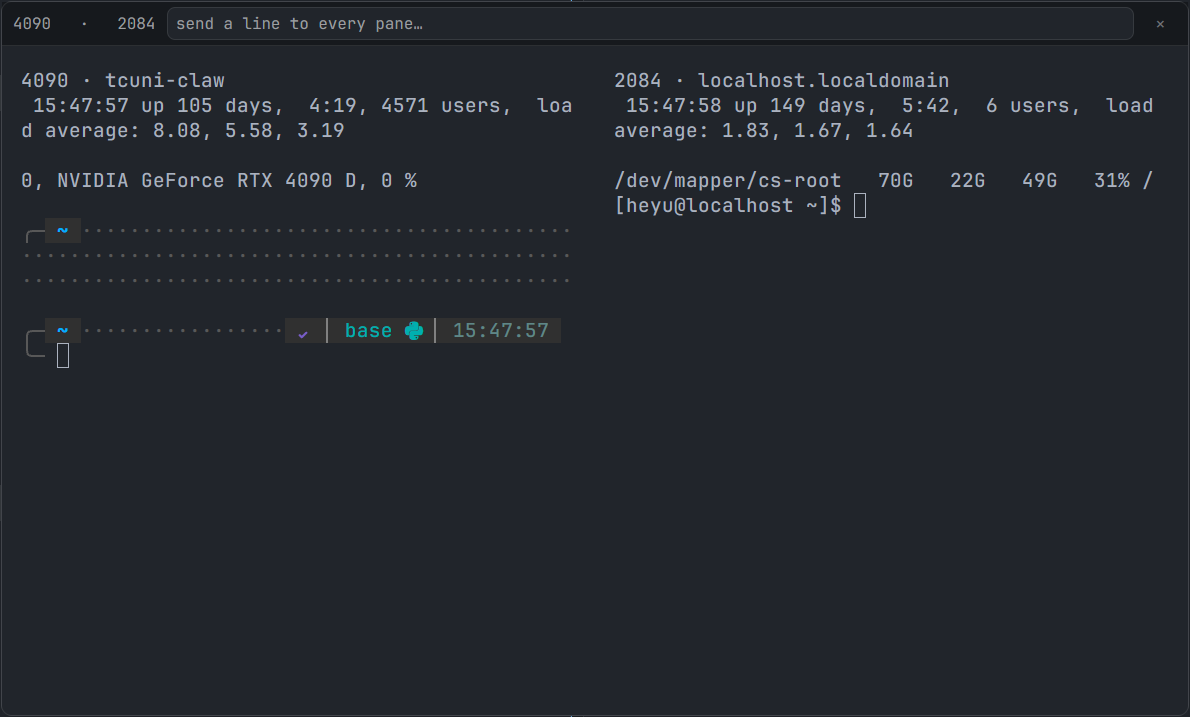
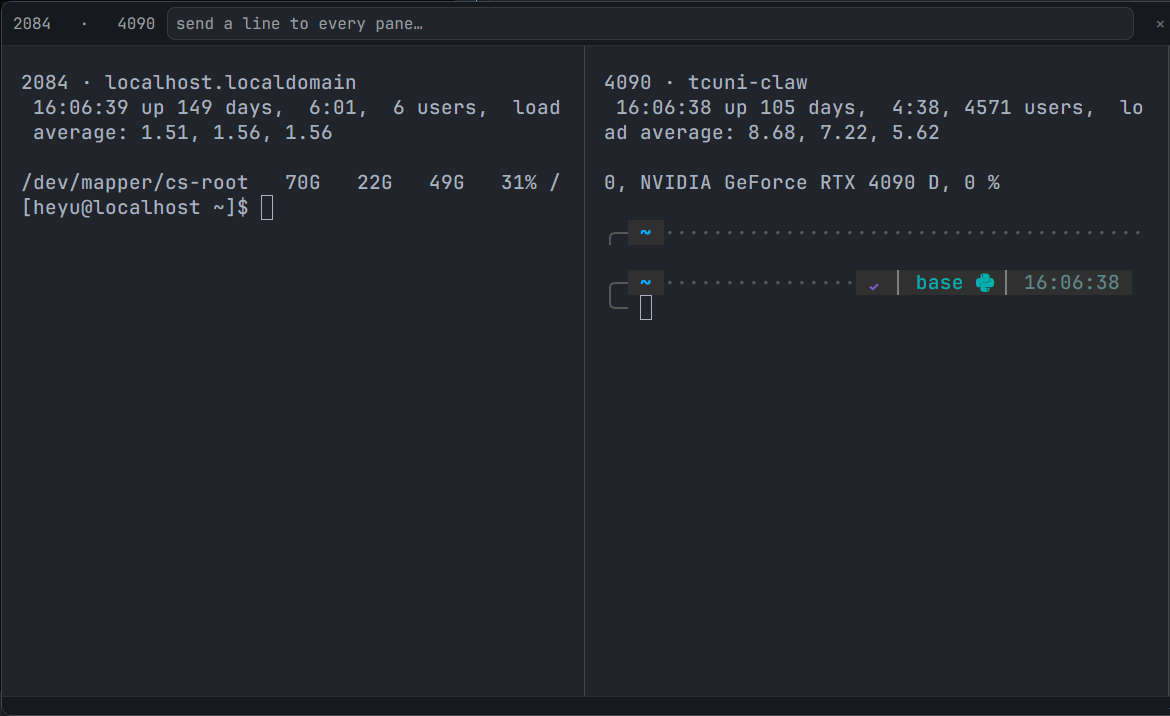
resize from the window edges, and say what cannot be done
Two 14 px bands: the bottom drags the width, the right edge the height; the
window reopens at the new size where it was. Divider drag and an OS window are
not available, so the README and RECIPE now say so.

diff --git a/mods/xsplit/main.js b/mods/xsplit/main.js
@@ -18,6 +18,11 @@ import { terminals, panes, theme, openOverlay, closeOverlay, props, shared, setS
 
 const PICK = "xsplit.pick";
 const WIN = "xsplit.window";
+const SIZE = "xsplit.size";
+
+function clamp(n, lo, hi) {
+  return Math.max(lo, Math.min(hi, n));
+}
 
 function machineOf(address) {
   const i = String(address).indexOf("/");
@@ -29,12 +34,60 @@ function tail(path) {
   return parts.length ? parts[parts.length - 1] : "";
 }
 
+// The window. Reopening with the same key replaces the open one where it is, which is
+// how the grip resizes it: a window has no resize handle of its own.
+function openWindow(terms, w, h) {
+  const id = openOverlay({
+    kind: "window",
+    key: "xsplit",
+    width: w,
+    height: h,
+    layout: {
+      type: "column",
+      children: [
+        { type: "block", size: { px: 32 }, content: { mod: "xsplit", props: { xsplitBar: { terms } } } },
+        {
+          type: "row",
+          // A layout divider is drawn but not draggable over terminal blocks, so the
+          // right edge carries its own 14 px handle: dragging it changes the height.
+          divider: { width: 1, color: "border" },
+          children: [
+            ...terms.map((t) => ({
+              type: "block",
+              content: { terminal: t.address },
+              size: { weight: 1 },
+              min: 80,
+            })),
+            {
+              type: "block",
+              size: { px: 14 },
+              content: { mod: "xsplit", props: { xsplitGrip: { axis: "h", terms } } },
+            },
+          ],
+        },
+        { type: "block", size: { px: 14 }, content: { mod: "xsplit", props: { xsplitGrip: { axis: "w", terms } } } },
+      ],
+    },
+  });
+  setShared(WIN, id);
+  setShared(SIZE, { w: Math.round(w), h: Math.round(h) });
+  return id;
+}
+
 export default class XSplit extends View {
   init(_props, cx) {
     // A strip in the layout (`props.launcher`): one click opens the picker, so the
     // mod doesn't have to be started from a shell.
     if (props()?.launcher) {
       this.mode = "launcher";
+      return;
+    }
+
+    // The 14 px strip along the bottom of the window: drag it to resize.
+    if (props()?.xsplitGrip) {
+      this.mode = "grip";
+      this.drag = null;
+      this.self = null;
       return;
     }
 
@@ -94,20 +147,7 @@ export default class XSplit extends View {
       .filter((t) => this.pick.has(t.address))
       .map((t) => ({ address: t.address, where: t.where || t.cwd || "" }));
     if (!terms.length) return;
-    const id = openOverlay({
-      kind: "window",
-      key: "xsplit",
-      width: Math.min(1560, 420 * terms.length + 24),
-      height: 520,
-      layout: {
-        type: "column",
-        children: [
-          { type: "block", size: { px: 32 }, content: { mod: "xsplit", props: { xsplitBar: { terms } } } },
-          { type: "row", children: terms.map((t) => ({ type: "block", content: { terminal: t.address } })) },
-        ],
-      },
-    });
-    setShared(WIN, id);
+    openWindow(terms, Math.min(1560, 420 * terms.length + 24), 520);
     this.hint = `opened ${terms.length} pane${terms.length > 1 ? "s" : ""}`;
     cx.notify();
   }
@@ -145,8 +185,57 @@ export default class XSplit extends View {
   render(cx) {
     const t = theme();
     if (this.mode === "launcher") return this.renderLauncher(t, cx);
+    if (this.mode === "grip") return this.renderGrip(t, cx);
     if (this.bar) return this.renderBar(t, cx);
     return this.renderPicker(t, cx);
+  }
+
+  // Resize handles: the bottom edge drags the width, the right edge the height. GPUI
+  // delivers moves only while the pointer is over the element, so each handle is a
+  // 14 px band and the delta is applied when the button comes up — the window is then
+  // reopened at the new size, in the same place (same key).
+  renderGrip(t, cx) {
+    const grip = props()?.xsplitGrip ?? {};
+    const vertical = grip.axis === "h";
+    const size = shared(SIZE) || { w: 0, h: 0 };
+    const live = this.drag ? (vertical ? `${this.drag.h} high` : `${this.drag.w} wide`) : "";
+    const el = vertical
+      ? v_flex().id("xsplit-grip-h").size_full().py(10).items_center().justify_center()
+      : h_flex().id("xsplit-grip-w").size_full().px(8).items_center().justify_end();
+    return el
+      .bg(t.chrome)
+      .when(vertical, (e) => e.border_l(1))
+      .when(!vertical, (e) => e.border_t(1))
+      .border_color(t.border)
+      .gap(6)
+      .text_size(10)
+      .text_color(t.dim)
+      .when(vertical, (e) => e.cursor_ns_resize())
+      .when(!vertical, (e) => e.cursor_ew_resize())
+      .when(Boolean(live), (e) => e.child(div().text_color(t.accent).child(live)))
+      .child(div().child(vertical ? "⋮" : "◢"))
+      .on_mouse_down("left", (e, cx) => {
+        cx.stop_propagation();
+        const w0 = Math.round(size.w);
+        const h0 = Math.round(size.h);
+        this.drag = { x: e.position.x, y: e.position.y, w0, h0, w: w0, h: h0 };
+        cx.notify();
+      })
+      .on_mouse_move((e, cx) => {
+        const d = this.drag;
+        if (!d) return;
+        if (vertical) d.h = clamp(Math.round(d.h0 + (e.position.y - d.y)), 220, 1400);
+        else d.w = clamp(Math.round(d.w0 + (e.position.x - d.x)), 420, 2400);
+        cx.notify();
+      })
+      .on_mouse_up("left", (e, cx) => {
+        const d = this.drag;
+        this.drag = null;
+        cx.notify();
+        if (!d) return;
+        cx.stop_propagation();
+        openWindow(grip.terms ?? [], d.w, d.h);
+      });
   }
 
   // One row: a button that opens the picker. It lives in a narrow sidebar, so it

diff --git a/RECIPE.md b/RECIPE.md
@@ -47,6 +47,18 @@ beneath, 11.5 px text:
 - right: `×`, 7 px × 2 px, radius 5, 13 px, `dim`, `hover` background and `foreground`
   text under the pointer
 
+**The edges.** Two 14 px bands inside the window, both `chrome` with 1 px `border` on
+the side that touches a terminal, 10 px `dim` text:
+
+- along the bottom, full width, `◢` at the right end, cursor `ew-resize`, dragging it
+  changes the width
+- down the right side of the terminal row, full height, `⋮` centred, cursor `ns-resize`,
+  dragging it changes the height
+
+While a drag is in progress each one shows the pending number in `accent` (`1024 wide`,
+`640 high`) instead of its glyph. The window's own frame has no resize handle, so these
+are the only way to size it.
+
 **The strip**, for a layout: full width of its block, 12 px side padding, 7 px gaps,
 `chrome` background, 1 px `border` line above, 11.5 px `muted` text, `hover`
 background under the pointer. Contents: `⇄` in 13 px `accent`, `Cross-machine` flexing
@@ -77,6 +89,14 @@ and truncating, `›` in `dim` at the right edge.
 - **Closing.** `×` closes `props().overlay` (the overlay tells the mod its own id in the
   props of a window block) or else the remembered `xsplit.window`, then sets that shared
   key to `null`. The terminals are untouched.
+- **Resizing.** A window has no resize handle, and `openOverlay` is the only thing that
+  sets a size, so the two bands fake one: `on_mouse_down` records the pointer and the
+  size last opened (`shared("xsplit.size")`), `on_mouse_move` recomputes that one axis
+  (`420…2400` wide, `220…1400` high), and `on_mouse_up` calls `openOverlay` again with
+  the same `key` — the window comes back at the new size in the same place the person
+  dropped it. Nothing resizes while the button is down; the number in the band is the
+  preview. 32 px of bar and 14 px of bottom band are outside the body the height band
+  spans, hence the `+ 46` when the height band starts a drag.
 - **The strip** runs `tab.new { mod: "xsplit" }` on click — the same thing
   `herdr-app do tab.new --mod xsplit` does.
 - **`props.open`** — a list of addresses — opens a window on the picker's first render
@@ -86,13 +106,15 @@ and truncating, `›` in `dim` at the right edge.
 
 ## Built from
 
-`mods/xsplit/` — `main.js` (one `View`, 355 lines), `mod.json` (`{ "place": "none" }`:
+`mods/xsplit/` — `main.js` (one `View`, 444 lines), `mod.json` (`{ "place": "none" }`:
 it must not dock itself), and this repo's `keys.json`
 (`alt-x` → `{"command": "tab.new", "args": {"mod": "xsplit"}}`).
 
 - `herdr`: `terminals`, `panes`, `theme`, `openOverlay`, `closeOverlay`, `props`,
   `shared`, `setShared`, `hc`, `run`.
 - `gpui-kit`: `View`, `div`; `gpui-base`: `v_flex`, `h_flex`, `InputState`, `Input`.
+  The bands use `on_mouse_down`/`on_mouse_move`/`on_mouse_up` with `cursor_ew_resize` /
+  `cursor_ns_resize`, and `cx.stop_propagation()` so the press never starts a window drag.
 - `hc send` is the only program run: `hc(["send", "--force", <address>, <text>])`.
 - No images, no SVGs, no `exec`, no file reads. Glyphs are text (`⇄`, `›`, `×`).
 - `preview.png` was taken from the app with `herdr-app shot` on a 4090 + a 2084 column,
@@ -111,6 +133,13 @@ it must not dock itself), and this repo's `keys.json`
 - **The overlay passes its own id in `props`**, and only to the window's blocks. Keep the
   `props().overlay ?? shared("xsplit.window")` fallback: after a window is closed from
   elsewhere the shared id goes stale, and a `Close window` button driven by it lies.
+- **`on_size_change` on the same element kills the drag.** With it attached the
+  `on_mouse_up` never arrived: the band showed its pending number for ever and the
+  window never moved. Measuring the window another way (or not at all, and keeping the
+  opened size in `shared`) is what makes the release land.
+- **A press a few pixels off the band drags the whole window** instead of resizing it —
+  the band is only 14 px and the rest of the window is a `window_drag` region. Aim at
+  the band, not at the window edge.
 - **The bar is a drag handle** — the block sits in a `window_drag` region, so a double
   click maximizes the whole app window. Automation that clicks the bar twice will
   maximize Herdr.
@@ -139,6 +168,9 @@ it must not dock itself), and this repo's `keys.json`
 4. Typing `echo hi` in the bar and pressing Enter prints `hi` in both columns and the
    bar reports `sent to 2 panes`.
 5. `×` closes the window and both shells are still running afterwards.
-6. Reopening the picker shows the same two rows ticked.
-7. `herdr-app do tab.new --mod xsplit --props '{"open":["<a>","<b>"]}'` opens the window
+6. Dragging the bottom band left makes the window narrower and dragging the right band
+   down makes it taller; both keep the window where it was, and a press 2 px inside the
+   edge instead moves the whole window.
+7. Reopening the picker shows the same two rows ticked.
+8. `herdr-app do tab.new --mod xsplit --props '{"open":["<a>","<b>"]}'` opens the window
    without showing the picker first.

diff --git a/README.md b/README.md
@@ -94,6 +94,14 @@ tall, one column per picked terminal.
 
 - It is a window, not a tab. No divider drag, no `pane.split`/`pane.close`/`pane.zoom`,
   and it is not saved with the tab.
+- It is not an OS window either: Herdr has one window and this floats inside it. It
+  keeps where you dropped it (`key`), it stays above the panes, and a click beside it
+  doesn't close it — but it can't be moved to another monitor like a real window.
+- Columns are equal. The line between them is drawn, but dragging it does nothing: a
+  terminal block takes the press before the layout's resize boundary sees it.
+- Resize from the edges: the 14 px band along the bottom drags the width, the one along
+  the right edge the height. The size is applied on release, and the window reopens at
+  the new size in the same place.
 - With a terminal inside the window focused, those pane commands fail by design: the
   composition belongs to the mod, so change the layout in `main.js` instead.
 - Only terminals attached to a pane can be shown. A bare `hc run --bg` terminal has no

diff --git a/README.zh-CN.md b/README.zh-CN.md
@@ -85,6 +85,11 @@ herdr-app do tab.new --mod xsplit --props '{"open":["4090/t1f","5090/t2"]}'
 
 - 它是窗口，不是 tab：没有分割线拖动，没有 `pane.split` / `pane.close` / `pane.zoom`，
   也不会跟 tab 一起保存。
+- 它也不是操作系统的独立窗口：Herdr 只有一个窗口，它是浮在里面的一层。它会记住你放下的位置
+  （`key`），浮在 pane 之上，点旁边不会关，但没法像真窗口那样拖到另一块屏。
+- 各列等宽；列与列之间那条线是画出来的，拖不动 —— 终端 block 会先吃掉按下事件，布局的
+  resize 边界收不到。
+- 改尺寸靠两条 14 px 的边：底边拖宽度，右边拖高度。松手时才生效，窗口按新尺寸在同一位置重开。
 - 窗口里的终端获得焦点时，上述 pane 命令按设计会失败 —— 组合归 mod 管，改布局要改
   `main.js`。
 - 只能显示挂在 pane 上的终端。`hc run --bg` 那种游离终端没有 pane，放进去会渲染成一条
